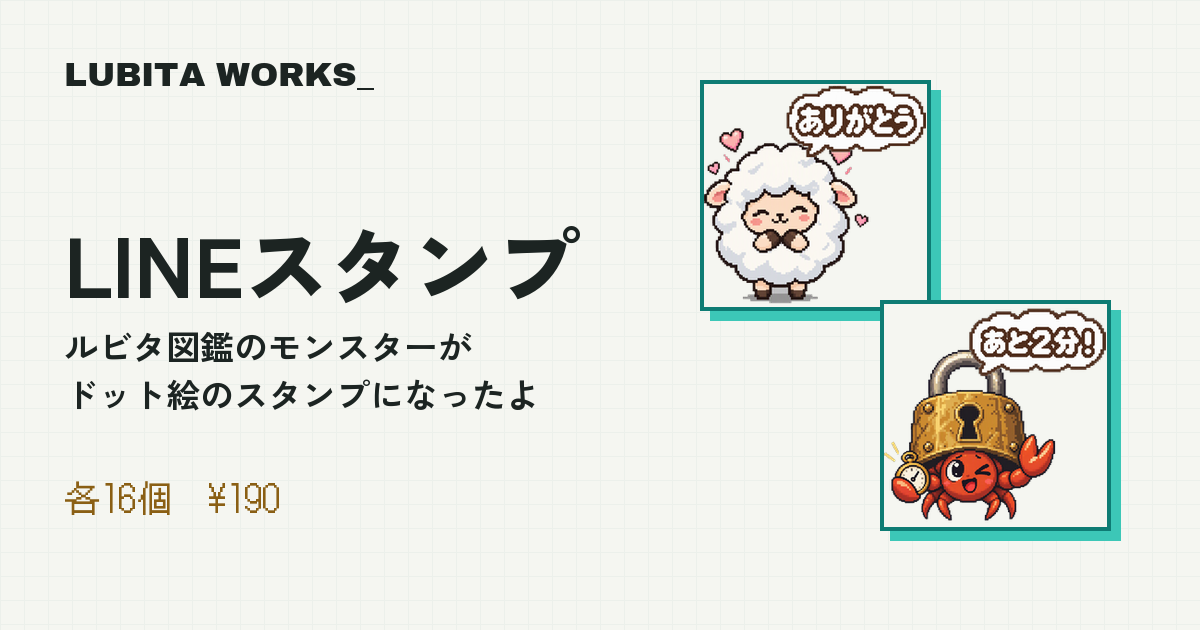
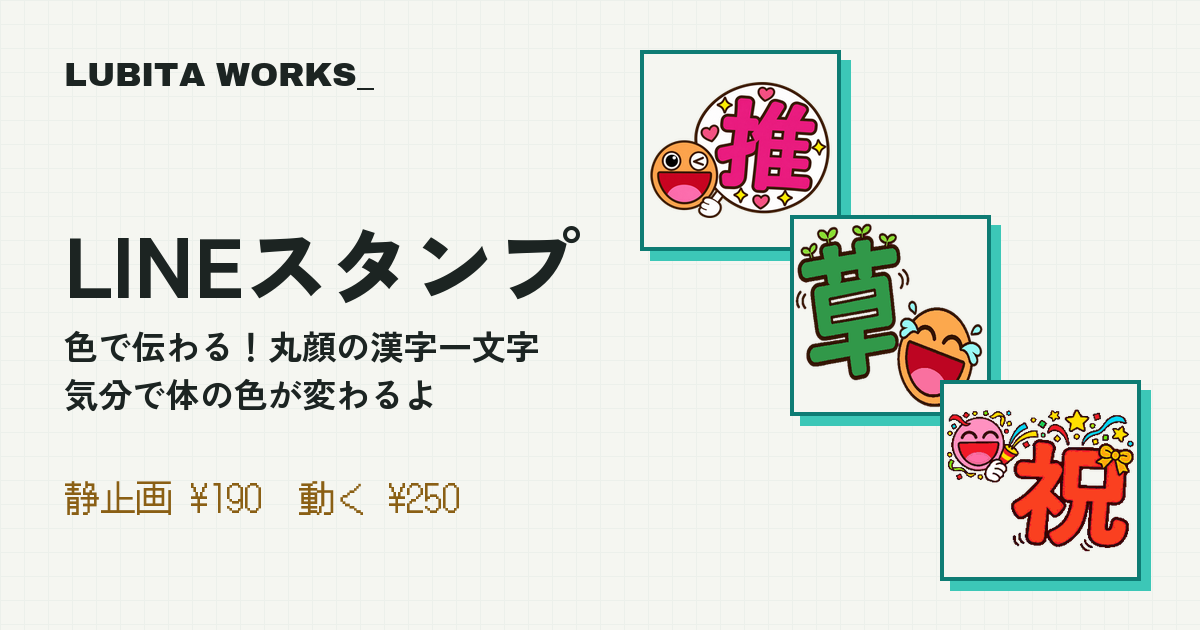
OGP画像(スタンプ一覧): 色で伝わる丸顔漢字シリーズをメインに変更

diff --git a/tools/make_og_stickers.py b/tools/make_og_stickers.py
@@ -1,15 +1,26 @@
-"""LINEスタンプ用のOGP画像（1200x630）を作る。使い方: python tools/make_og_stickers.py
-原本のスタンプ画像は環境変数 LUBITA_STICKER_ROOT（既定は休憩室の 図鑑/書き出し）。"""
+"""LINEスタンプ用のOGP画像（1200x630）を作る。使い方: python tools/make_og_stickers.py [出力先]
+2026-11-17〜: 「色で伝わる！丸顔の漢字一文字」シリーズをメインにした絵柄（3枚）。
+原本のスタンプ画像は環境変数 LUBITA_KANJI_ROOT（既定は休憩室の 漢字スタンプ）。
+動く版の画像は1コマ目を使う。"""
 import io
 import os
+import sys
 from pathlib import Path
 
 from fontTools.ttLib import TTFont
 from PIL import Image, ImageDraw, ImageFont
 
 ROOT = Path(__file__).resolve().parent.parent
-SRC = Path(os.environ.get("LUBITA_STICKER_ROOT", r"c:\Users\tashi\OneDrive\Desktop\LUBITA WORKS\休憩室\LINEスタンプ試作\図鑑\書き出し"))
+SRC = Path(os.environ.get("LUBITA_KANJI_ROOT", r"c:\Users\tashi\OneDrive\Desktop\LUBITA WORKS\休憩室\LINEスタンプ試作\漢字スタンプ"))
 PAPER, INK, TEAL, SHADOW, AMBER = (245, 246, 241), (28, 36, 34), (14, 124, 116), (60, 199, 183), (138, 95, 20)
+
+# (素材の相対パス, カードの左上x, y)。左上から右下へ、少し重ねて並べる
+CARDS = [
+    ("申請用/静止画40/main.png", 640, 50),                    # 推（静止画のメイン）
+    ("動く版/気持ち編/4_申請用/stickers/03.png", 790, 215),    # 草（気持ち編）
+    ("動く版/日常編/4_申請用/stickers/main.png", 940, 380),    # 祝（返事・日常編のメイン）
+]
+CARD_SIZE = 200
 
 
 def font(name, size):
@@ -35,13 +46,14 @@ def main():
         d.line([0, gy, 1200, gy], fill=(236, 240, 235))
     d.text((64, 56), "LUBITA WORKS_", font=font("ArchivoBlack.woff2", 34), fill=INK)
     d.text((64, 200), "LINEスタンプ", font=font("ZenKakuGothicNew-900.woff2", 84), fill=INK)
-    d.text((64, 320), "ルビタ図鑑のモンスターが", font=font("ZenKakuGothicNew-700.woff2", 34), fill=INK)
-    d.text((64, 368), "ドット絵のスタンプになったよ", font=font("ZenKakuGothicNew-700.woff2", 34), fill=INK)
-    d.text((64, 470), "各16個  ¥190", font=font("DotGothic16.woff2", 36), fill=AMBER)
-    for (folder, x, y) in [("ヒツジ", 700, 80), ("ヤドカリ", 880, 300)]:
-        im = Image.open(SRC / folder / "main.png").convert("RGBA")
-        card(im, x, y, 230, d, c)
-    out = ROOT / "assets/img/og-stickers.png"
+    d.text((64, 320), "色で伝わる！丸顔の漢字一文字", font=font("ZenKakuGothicNew-700.woff2", 34), fill=INK)
+    d.text((64, 368), "気分で体の色が変わるよ", font=font("ZenKakuGothicNew-700.woff2", 34), fill=INK)
+    d.text((64, 470), "静止画 ¥190　動く ¥250", font=font("DotGothic16.woff2", 36), fill=AMBER)
+    for (rel, x, y) in CARDS:
+        im = Image.open(SRC / rel)
+        im.seek(0)
+        card(im.convert("RGBA"), x, y, CARD_SIZE, d, c)
+    out = Path(sys.argv[1]) if len(sys.argv) > 1 else ROOT / "assets/img/og-stickers.png"
     c.save(out, optimize=True)
     print(out, out.stat().st_size // 1024, "KB")
 
